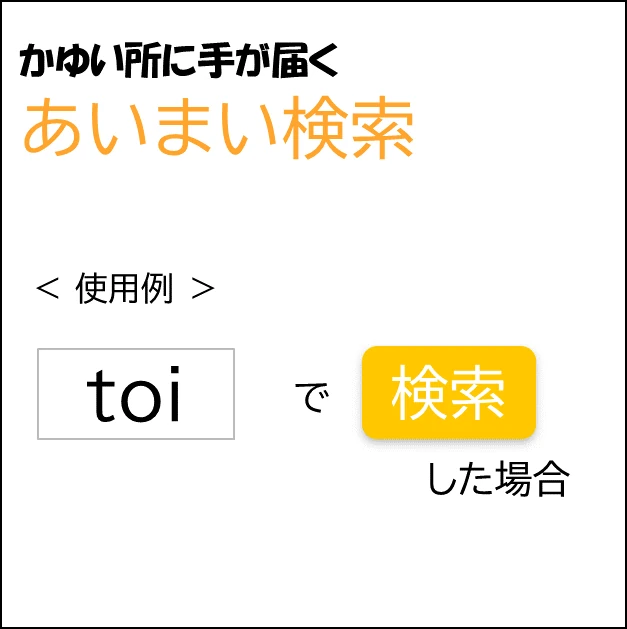
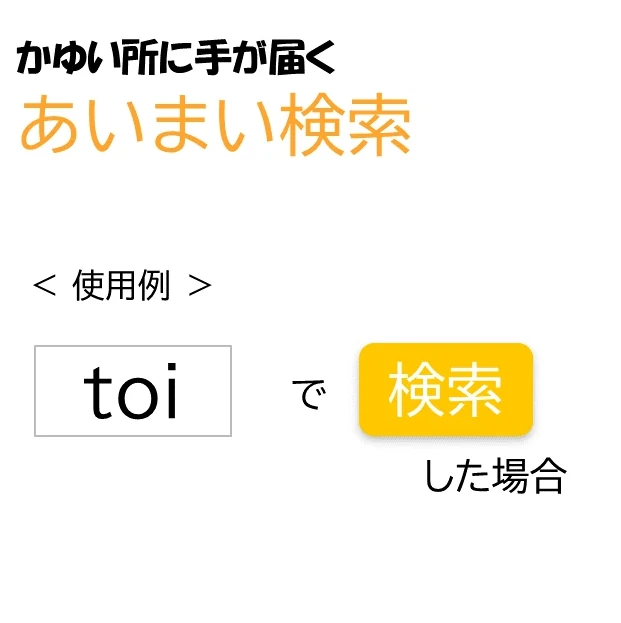
corrected appearance of top and search images

diff --git a/resources/views/words/search.blade.php b/resources/views/words/search.blade.php
@@ -149,10 +149,10 @@
           <span aria-hidden="true">&times;</span>
         </button><br>
       </div>
-      <div style="display:inline-block">
-          <img src="/image/search-description1.webp" style="height:300px; width:300px" alt='あいまい検索 使用例'>
-          <img src="/image/search-description2.webp" style="height:300px; width:300px" alt='声調記号などが違ってもヒットします 発音が似ている単語もヒットします 混同しやすい単語の整理にも便利です'>
-          <img src="/image/search-description3.webp" style="height:300px; width:300px" alt='ベトナム語だけでなく 日本語 漢越語 関連タグ もヒットします'>
+      <div class="border border-dark" style="display:inline-block;">
+          <img class="border m-1" src="/image/search-description1.webp" style="height:300px; width:300px;" alt='あいまい検索 使用例'>
+          <img class="border m-1" src="/image/search-description2.webp" style="height:300px; width:300px;" alt='声調記号などが違ってもヒットします 発音が似ている単語もヒットします 混同しやすい単語の整理にも便利です'>
+          <img class="border m-1" src="/image/search-description3.webp" style="height:300px; width:300px;" alt='ベトナム語だけでなく 日本語 漢越語 関連タグ もヒットします'>
       </div>
       <div class="text-center">
         <p>
